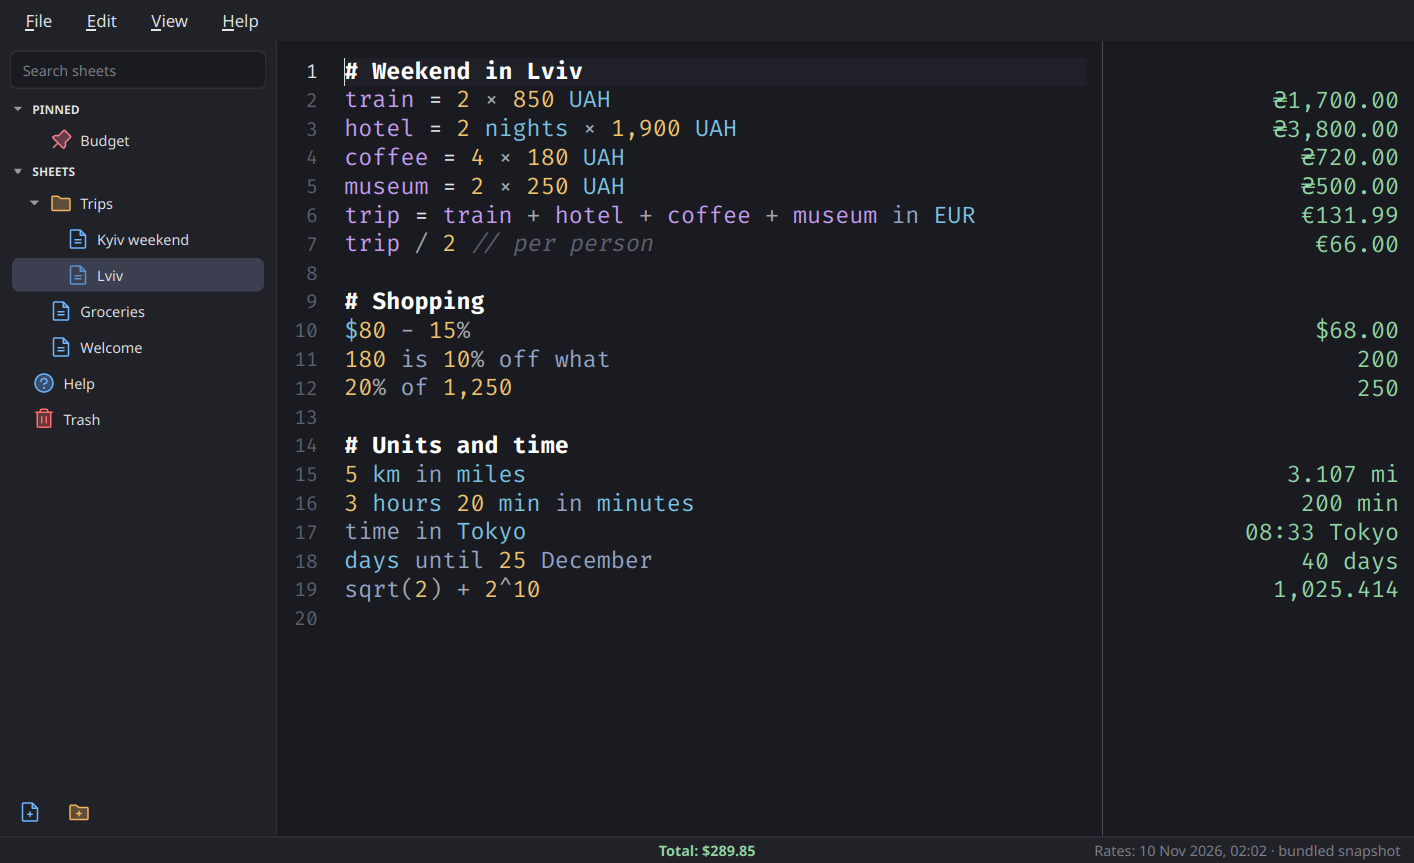
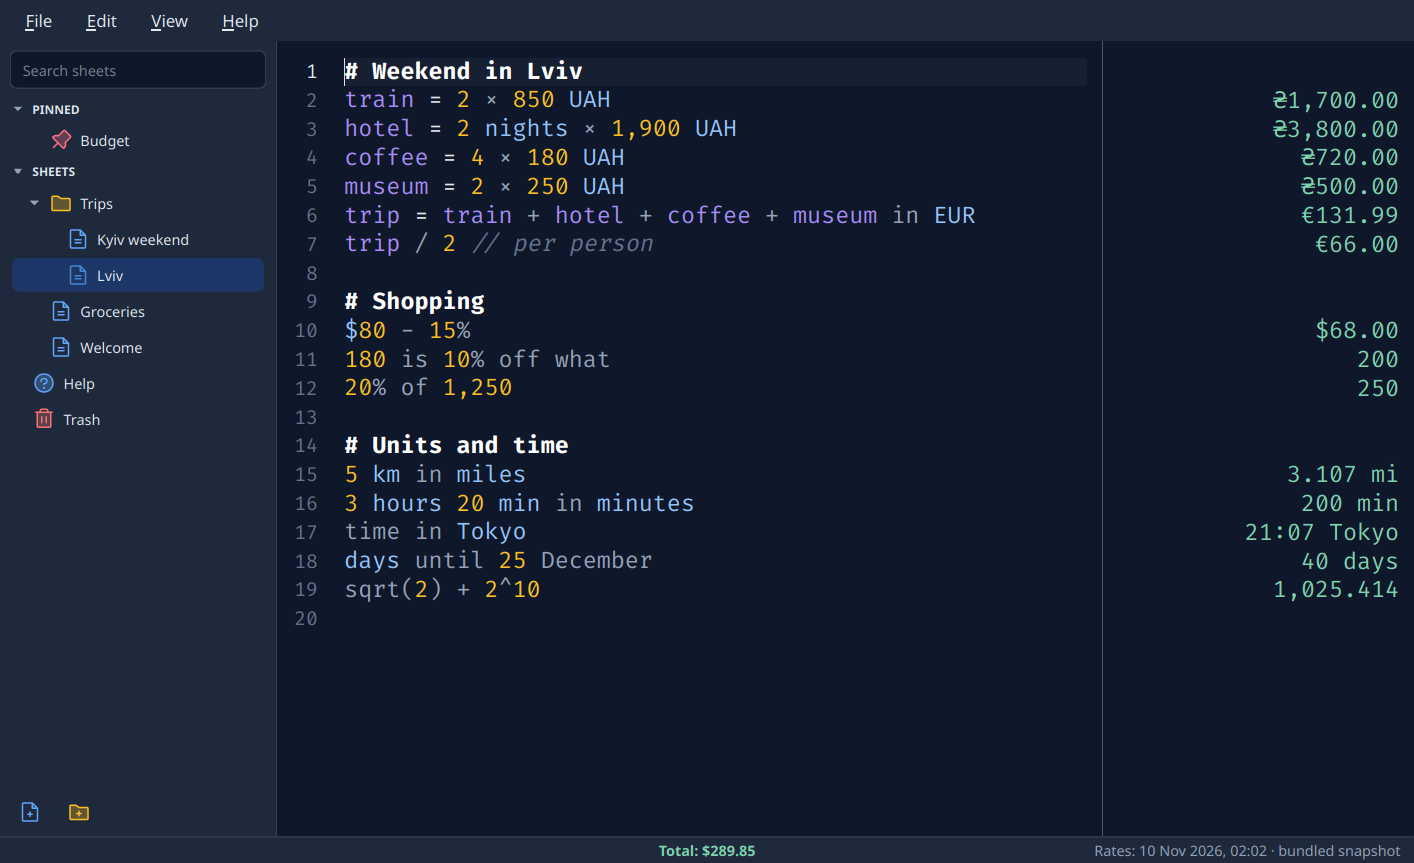
feat(theme): make glacier the default
New installs start in Glacier, and the View menu and Settings list it
first. The default now lives only in Settings, so resolve() takes the
colours it is given. The demo GIF and screenshot start in Glacier and
switch to Ember, and the README and site say Glacier is the default.
Existing installs keep the theme they have saved.

diff --git a/docs/uk/index.html b/docs/uk/index.html
@@ -147,7 +147,7 @@
               <span class="icon" style="mask-image: url(../assets/icons/colours.svg); -webkit-mask-image: url(../assets/icons/colours.svg); background: var(--icon-violet)"></span>
               <h3>Дві теми</h3>
               <p>
-                Ember має теплі сірі кольори з помаранчевим. Glacier має синьо-сірі, як ця сторінка.
+                Типова тема Glacier має синьо-сірі кольори, як ця сторінка. Ember має теплі сірі з помаранчевим.
                 Для обох тем можна обрати світлий чи темний режим або налаштування системи.
               </p>
             </div>

diff --git a/docs/index.html b/docs/index.html
@@ -153,7 +153,7 @@
               <span class="icon" style="mask-image: url(assets/icons/colours.svg); -webkit-mask-image: url(assets/icons/colours.svg); background: var(--icon-violet)"></span>
               <h3>Two themes</h3>
               <p>
-                Ember uses warm greys and orange. Glacier uses slate blue, as on this page.
+                Glacier is the default and uses slate blue, as on this page. Ember uses warm greys and orange.
                 Both have dark and light modes and can follow your system setting.
               </p>
             </div>

diff --git a/calculon/ui/theme.py b/calculon/ui/theme.py
@@ -49,7 +49,7 @@ class Theme:
         return self.name == "dark"
 
 
-# Ember: warm greys with orange highlights, the default
+# Ember: warm greys with orange highlights
 # icon colours: bright shades on dark, deeper ones on light
 ICONS_DARK = {
     "neutral": "#a3a7b1", "blue": "#6cb6ff", "amber": "#f2b35e", "violet": "#b794f6",
@@ -116,7 +116,7 @@ LIGHT = Theme(
 )
 
 
-# Glacier: Tailwind's slate greys and accents, like the sprytnyk/ip page
+# Glacier, the default: Tailwind's slate greys and accents, like the sprytnyk/ip page
 GLACIER_ICONS_DARK = {
     "neutral": "#94a3b8", "blue": "#60a5fa", "amber": "#fbbf24", "violet": "#a78bfa",
     "green": "#34d399", "teal": "#2dd4bf", "cyan": "#22d3ee", "rose": "#fb7185",
@@ -180,8 +180,8 @@ GLACIER_LIGHT = Theme(
     icons=GLACIER_ICONS_LIGHT,
 )
 
-# Settings → Colours: (dark, light) for each
-PALETTES = {"ember": (DARK, LIGHT), "glacier": (GLACIER_DARK, GLACIER_LIGHT)}
+# the themes in Settings → Appearance and the View menu, each as (dark, light)
+PALETTES = {"glacier": (GLACIER_DARK, GLACIER_LIGHT), "ember": (DARK, LIGHT)}
 
 UI_FONT_SCALE = 1.15  # menus, sidebar and dialogs a bit larger than the system default
 _base_font: list[QFont] = []
@@ -208,8 +208,8 @@ def system_is_dark() -> bool:
     return hints.colorScheme() == Qt.ColorScheme.Dark
 
 
-def resolve(setting: str, colours: str = "ember") -> Theme:
-    dark, light = PALETTES.get(colours, PALETTES["ember"])
+def resolve(setting: str, colours: str) -> Theme:
+    dark, light = PALETTES[colours]
     if setting == "light":
         return light
     if setting == "system":

diff --git a/tests/test_ui.py b/tests/test_ui.py
@@ -107,19 +107,19 @@ def test_help_is_read_only_and_translated(window, app) -> None:
 
 def test_theme_switch(window, app) -> None:
     window.set_theme("light")
-    assert QApplication.palette().base().color().name() == "#fbfbf9"
+    assert QApplication.palette().base().color().name() == "#f8fafc"
     window.set_theme("dark")
-    assert QApplication.palette().base().color().name() == "#1a1b20"
+    assert QApplication.palette().base().color().name() == "#0f172a"
 
 
 def test_colours_switch(window, app) -> None:
-    window.set_colours("glacier")
-    assert QApplication.palette().base().color().name() == "#0f172a"
-    window.set_theme("light")
-    assert QApplication.palette().base().color().name() == "#f8fafc"
-    window.set_theme("dark")
     window.set_colours("ember")
     assert QApplication.palette().base().color().name() == "#1a1b20"
+    window.set_theme("light")
+    assert QApplication.palette().base().color().name() == "#fbfbf9"
+    window.set_theme("dark")
+    window.set_colours("glacier")
+    assert QApplication.palette().base().color().name() == "#0f172a"
 
 
 @pytest.mark.parametrize(
@@ -344,7 +344,7 @@ def test_unknown_settings_fall_back_to_defaults(app) -> None:
         "USD",
     )
     assert (s.font_size, s.max_decimals) == (14, 20)
-    assert s.colours == "ember"
+    assert s.colours == "glacier"
 
 
 def test_undo_survives_switching_sheets(window, app) -> None:

diff --git a/calculon/settings.py b/calculon/settings.py
@@ -35,7 +35,7 @@ def fallback_sheets_dir() -> str:
 class Settings:
     sheets_dir: str = ""
     theme: str = "dark"  # dark, light, system
-    colours: str = "ember"  # ember, glacier
+    colours: str = "glacier"  # glacier, ember
     language: str = "en"  # en, uk
     number_style: str = "auto"  # auto follows the language: 1,234.56 or 1 234,56
     date_order: str = "DMY"
@@ -74,7 +74,7 @@ class Settings:
         # a hand-edited or newer config can hold values this version doesn't know
         choices = {
             "theme": ("dark", "light", "system"),
-            "colours": ("ember", "glacier"),
+            "colours": ("glacier", "ember"),
             "language": tuple(LANGUAGES),
             "number_style": ("auto", *NUMBER_STYLES),
             "date_order": ("DMY", "MDY"),

diff --git a/scripts/make_gif.py b/scripts/make_gif.py
@@ -1,5 +1,5 @@
-"""Make docs/demo.gif for the README: the Lviv trip sheet typed out in Ember, then Glacier.
-Also docs/screenshot.png, the website's link preview: the typed sheet in Ember.
+"""Make docs/demo.gif for the README: the Lviv trip sheet typed out in Glacier, then Ember.
+Also docs/screenshot.png, the website's link preview: the typed sheet in Glacier.
 
 Run with: make gif (needs ffmpeg)
 
@@ -121,7 +121,7 @@ def record(folder: Path) -> tuple[list[tuple[Path, float]], Path]:
         window.editor.moveCursor(QTextCursor.MoveOperation.Start)
         snap(3.0)
         still = frames[-1][0]
-        window.set_colours("glacier")
+        window.set_colours("ember")
         snap(3.5)
     finally:
         window.close()

diff --git a/calculon/ui/settings_dialog.py b/calculon/ui/settings_dialog.py
@@ -32,7 +32,7 @@ from ..settings import Settings
 from ..spelling import Status, platform_key, probe
 from ..translations import LANGUAGES
 from . import icons
-from .theme import DARK, PALETTES, Theme
+from .theme import GLACIER_DARK, PALETTES, Theme
 
 NUMBER_STYLES = [
     ("auto", ""),
@@ -135,7 +135,7 @@ class SettingsDialog(QDialog):
         super().__init__(parent)
         self.t = tr
         self.original = settings
-        theme: Theme = getattr(parent, "theme", DARK)
+        theme: Theme = getattr(parent, "theme", GLACIER_DARK)
         self.setObjectName("settings")
         self.setWindowTitle(tr("settings_title"))
         self.setWindowIcon(icons.icon("settings"))

diff --git a/README.md b/README.md
@@ -4,7 +4,7 @@ A natural-language notepad calculator. Write plain lines with numbers, money, un
 dates, and the answers show up in a column on the right. The syntax follows
 [Soulver's](https://documentation.soulver.app/), so most sheets work in both.
 
-![Typing a trip budget sheet in Calculon: the answers show up on the right as each line is written, then the theme switches from Ember to Glacier](docs/demo.gif)
+![Typing a trip budget sheet in Calculon: the answers show up on the right as each line is written, then the theme switches from Glacier to Ember](docs/demo.gif)
 
 ## Features
 
@@ -31,7 +31,7 @@ dates, and the answers show up in a column on the right. The syntax follows
 - Optional Vim mode with Normal, Insert and Visual modes, from
   [side-vim](https://github.com/sprytnyk/side-vim). To turn it on, open
   the Vim page in Settings
-- Two themes, Ember and Glacier, each dark, light or following the system
+- Two themes, Glacier and Ember, each dark, light or following the system, with Glacier by default
 - Spell check for English and Ukrainian on Linux, and on macOS after a manual setup
 
 The Help sheet in the sidebar explains the calculation syntax with examples. Open it with F1.
